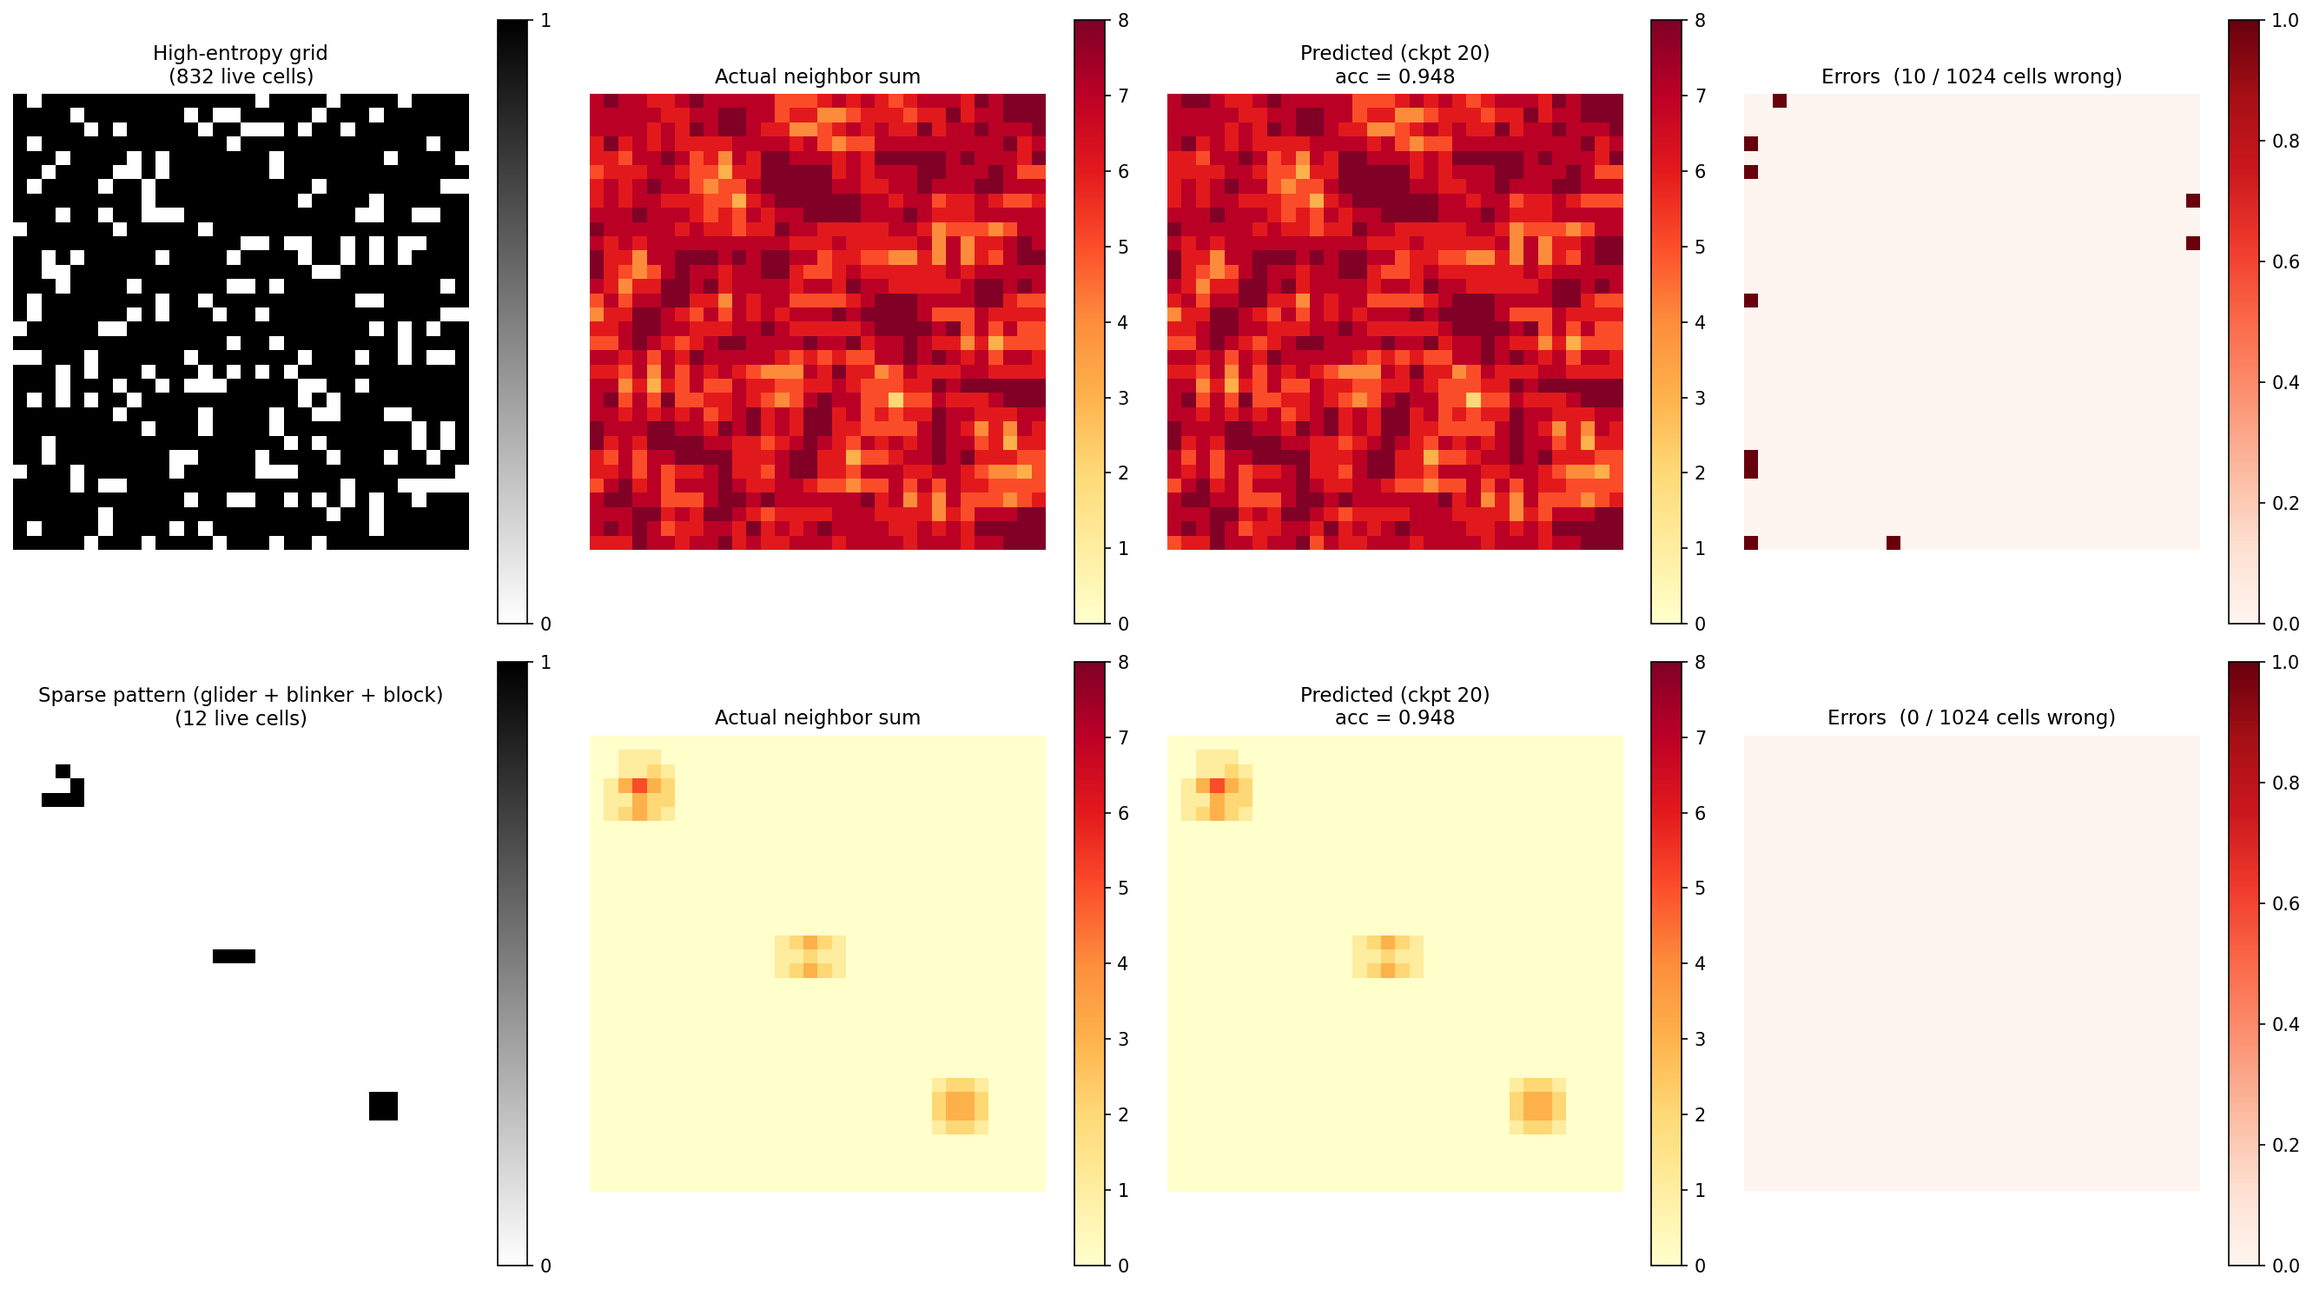
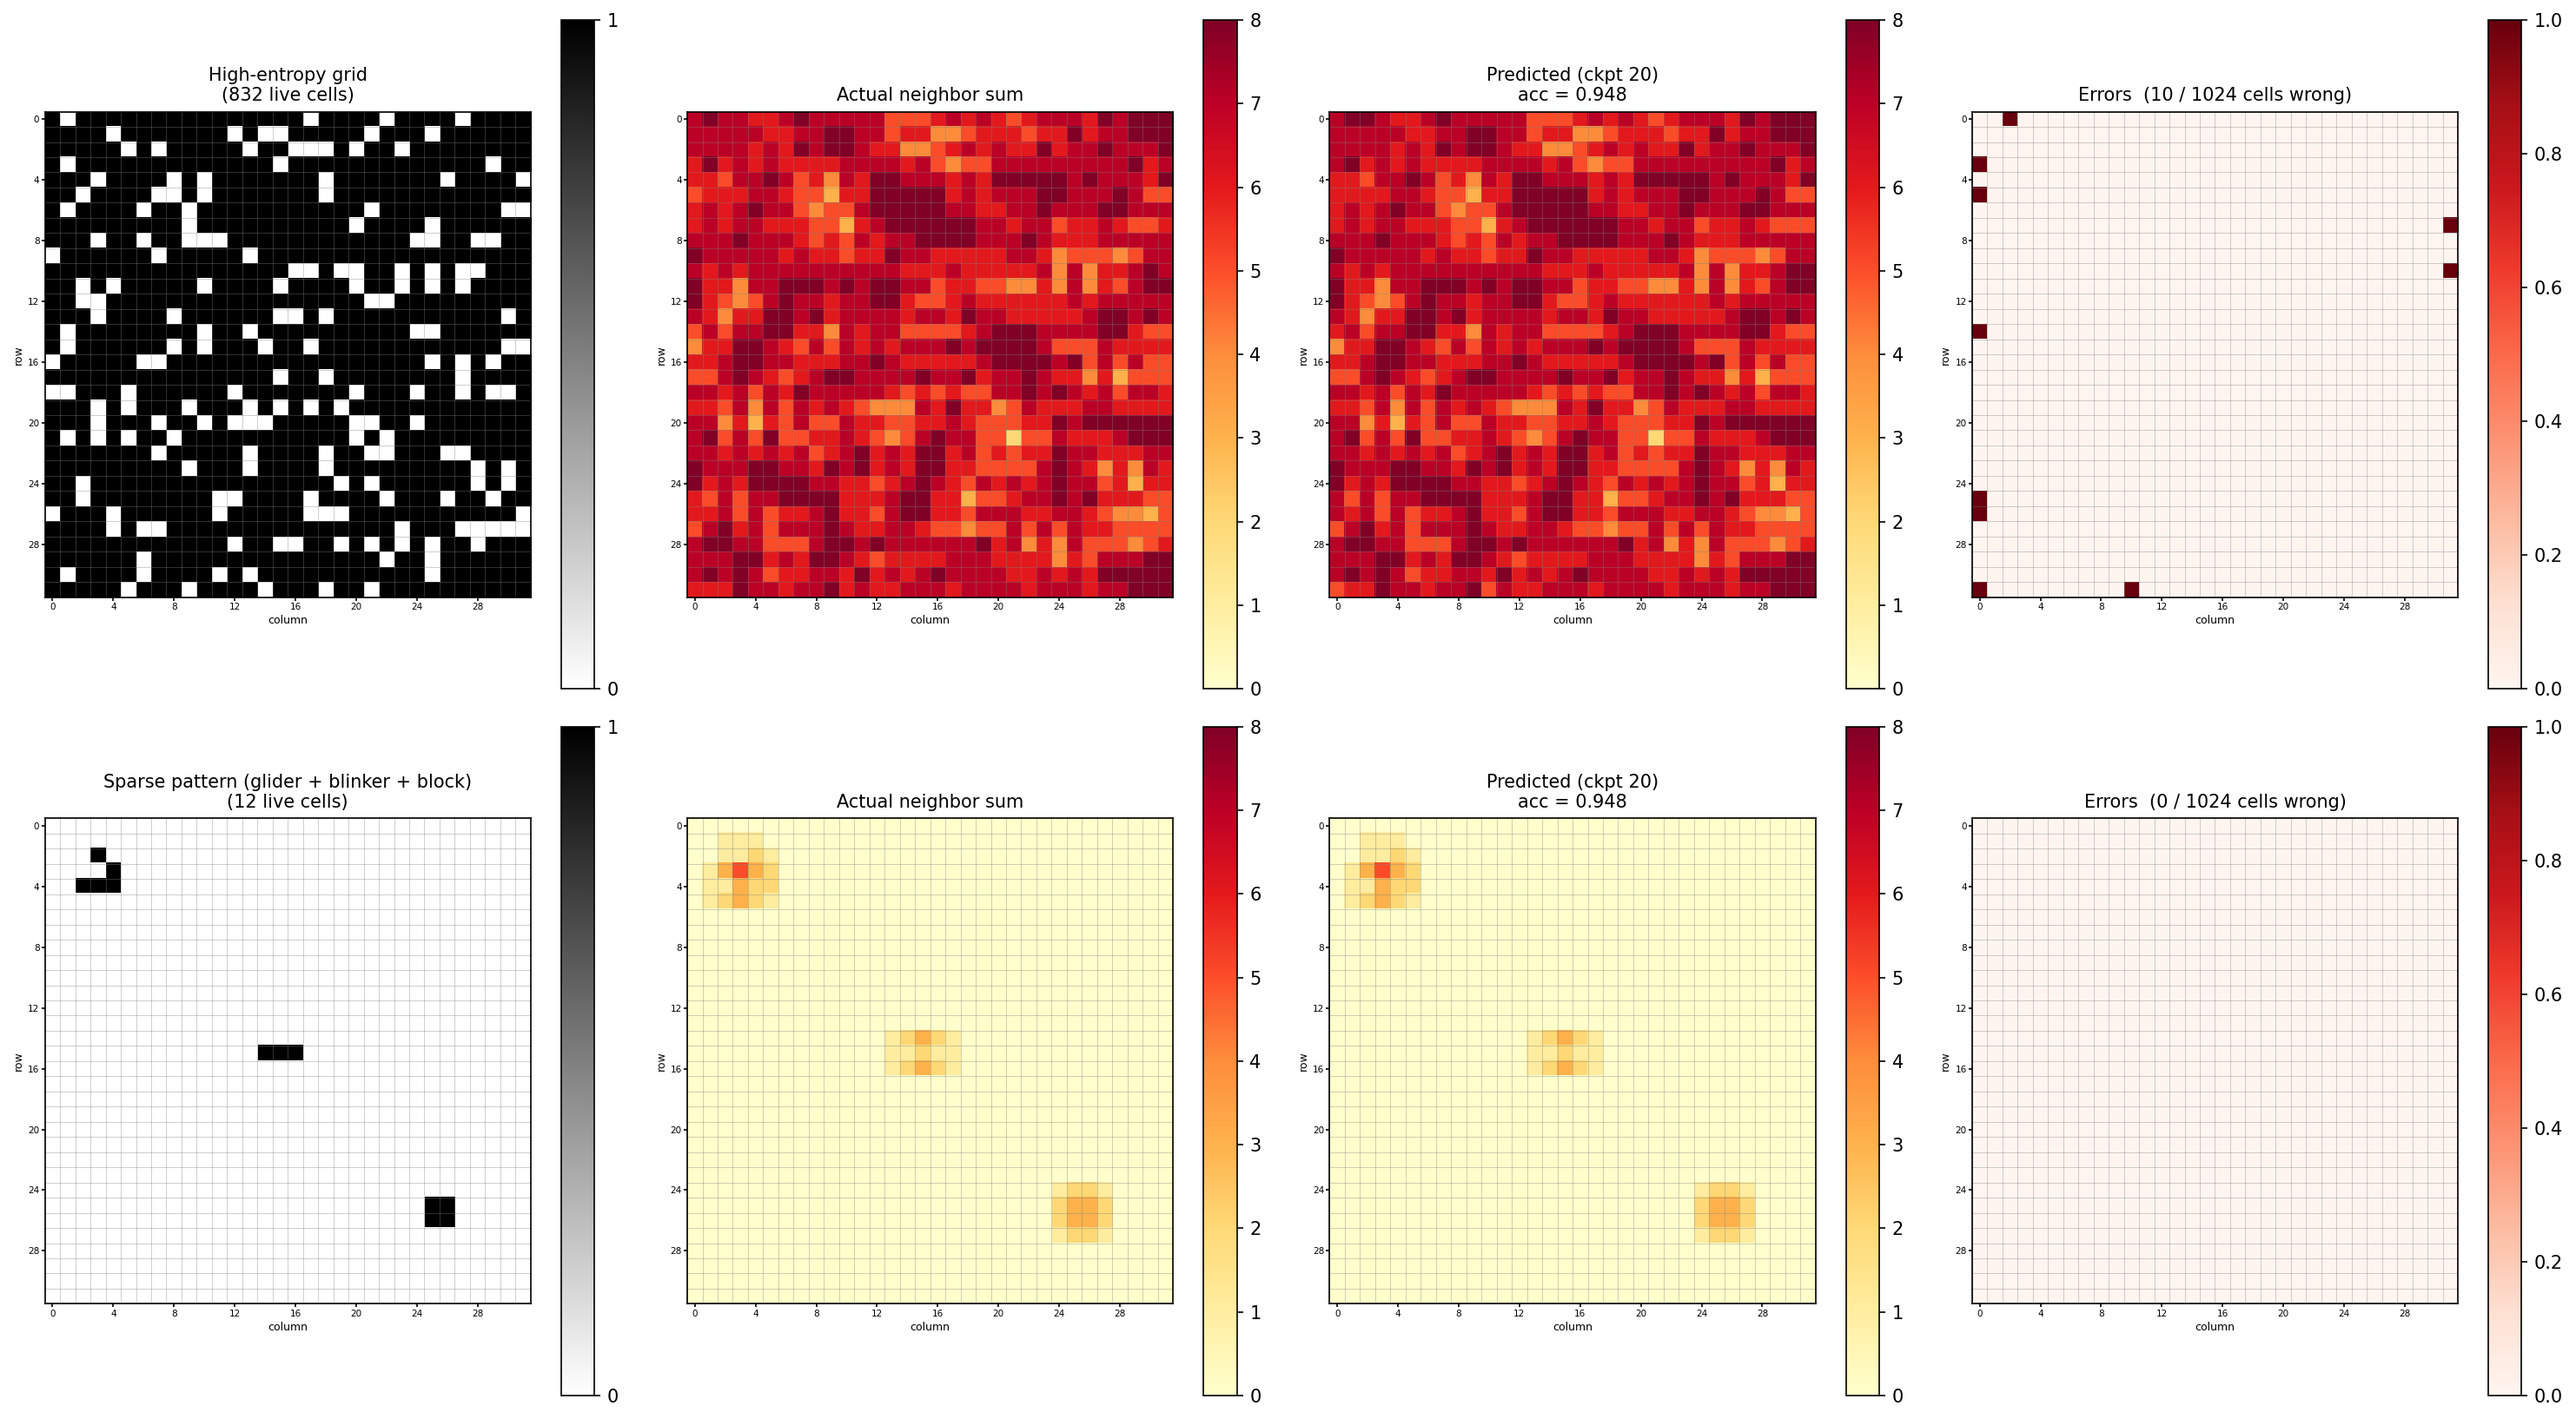
Added separate replotting script, which adds grid to the state and sum of neighbors plots

Changed region(s): [[0.0, 0.0, 0.9974, 0.9919], [0.9662, 0.0, 0.9974, 0.031], [0.2182, 0.9609, 0.2493, 0.9919]]

diff --git a/mech_interp/2_2_replot_probe_predictions.py b/mech_interp/2_2_replot_probe_predictions.py
@@ -1,0 +1,238 @@
+"""
+2_2_replot_probe_predictions.py
+
+Re-generates best_probe_prediction_vs_actual.png from saved probe_results.pt
+without rerunning probe training.  Adds cell-level grid lines and row/column
+indices to every subplot.
+
+Example A (high-entropy grid): fully derived from probe_results.pt + CSV.
+Example B (sparse grid):       hardcoded grid; requires one forward pass
+                                through the model to get activations.
+"""
+
+import os
+import numpy as np
+import pandas as pd
+import matplotlib
+matplotlib.use("Agg")
+import matplotlib.pyplot as plt
+import torch
+import typing
+
+from x_transformers import TransformerWrapper, Decoder
+from x_transformers.autoregressive_wrapper import AutoregressiveWrapper
+
+device = torch.device("cuda" if torch.cuda.is_available() else "cpu")
+
+GRID_SIZE  = 32
+SCRIPT_DIR = os.path.dirname(os.path.abspath(__file__))
+PLOTS_DIR  = os.path.join(SCRIPT_DIR, "plots")
+
+DATA_CSV = os.path.join(
+    SCRIPT_DIR,
+    "../LifeGPT/conway_states_0_1_10000by32by32by10_toroidal_20240711_133408.csv",
+)
+MODEL_PATH = os.path.join(
+    SCRIPT_DIR,
+    "../model_parameters/"
+    "07_22_2024_Conway_2_State_Jump_Rot_Pos_On_Masking_On_Broad_Entropy_Homog_"
+    "2024-07-23 10-37-31/LifeGPT_epoch_50.pt",
+)
+PROBE_PATH = os.path.join(SCRIPT_DIR, "activations", "probe_results.pt")
+
+# ── Load saved probe results ──────────────────────────────────────────────────
+
+print("Loading probe_results.pt ...")
+saved       = torch.load(PROBE_PATH)
+results     = saved["results"]
+all_acts_np = saved["all_acts"]          # (N_SAMPLES, n_ckpts, 1024, d_model)
+all_nbrs_np = saved["all_neighbors"]     # (N_SAMPLES, 1024)
+N_TRAIN     = saved["N_TRAIN"]
+
+best        = max(results, key=lambda r: r["test_acc"])
+best_r      = results[best["checkpoint"]]
+print(f"Best probe: checkpoint {best['checkpoint']}  test_acc={best['test_acc']:.3f}")
+
+# ── Helper: apply a saved probe ───────────────────────────────────────────────
+
+def probe_predict(r: dict, X: np.ndarray) -> np.ndarray:
+    Xt = (torch.from_numpy(X.astype(np.float32)) - r["mean"]) / r["std"]
+    return (Xt @ r["W"] + r["b"]).argmax(dim=-1).numpy()
+
+# ── Example A: high-entropy grid (from saved activations) ────────────────────
+
+print("Reconstructing Example A from saved data ...")
+TOTAL_ROWS = 10000
+N_SAMPLES  = all_acts_np.shape[0]
+sample_idx = np.linspace(0, TOTAL_ROWS - 1, N_SAMPLES, dtype=int)
+rows_to_skip = sorted(set(range(1, TOTAL_ROWS + 1)) - set(sample_idx + 1))
+df = pd.read_csv(DATA_CSV, skiprows=rows_to_skip, dtype=str)
+
+test_grid   = np.array(list(df.iloc[N_TRAIN]["State 1"]),
+                        dtype=np.int32).reshape(GRID_SIZE, GRID_SIZE)
+test_acts   = all_acts_np[N_TRAIN, best["checkpoint"], :, :]
+test_pred   = probe_predict(best_r, test_acts).reshape(GRID_SIZE, GRID_SIZE)
+test_actual = all_nbrs_np[N_TRAIN].reshape(GRID_SIZE, GRID_SIZE)
+test_err    = (test_pred != test_actual).astype(int)
+
+# ── Example B: sparse grid (one forward pass, no training) ───────────────────
+
+print("Running single forward pass for Example B ...")
+
+class Tokenizer:
+    def __init__(self, n_pad, device, pad_byte=0):
+        self.n_pad = n_pad; self.device = device; self.pad_byte = pad_byte
+
+    def tokenize_str(self, sentence, encoding="utf8", do_padding=True):
+        base = list(bytes(sentence, encoding))
+        if do_padding:
+            base.extend([self.pad_byte] * (self.n_pad - len(base)))
+        return torch.Tensor(base).long().to(self.device)
+
+    def texts_to_sequences(self, texts, encoding="utf8", do_padding=True):
+        return torch.cat(
+            [self.tokenize_str(s, do_padding=do_padding).unsqueeze(0) for s in texts]
+        ).to(self.device)
+
+
+def neighbor_sum(grid):
+    return sum(
+        np.roll(np.roll(grid, dr, 0), dc, 1)
+        for dr in [-1, 0, 1] for dc in [-1, 0, 1]
+        if not (dr == 0 and dc == 0)
+    ).astype(np.int32)
+
+
+MAX_LENGTH = len("@PredictNextState<> []$") + (GRID_SIZE * GRID_SIZE * 2)
+tokenizer  = Tokenizer(MAX_LENGTH, device)
+
+model = TransformerWrapper(
+    num_tokens=256, max_seq_len=MAX_LENGTH,
+    attn_layers=Decoder(dim=256, depth=12, heads=8, attn_dim_head=64,
+                        rotary_pos_emb=True, attn_flash=True),
+)
+model = AutoregressiveWrapper(model)
+model.load_state_dict(torch.load(MODEL_PATH))
+model.to(device); model.eval()
+
+_norm_cls = (torch.nn.LayerNorm,)
+try:
+    from x_transformers.x_transformers import RMSNorm, ScaleNorm
+    _norm_cls = (*_norm_cls, RMSNorm, ScaleNorm)
+except Exception:
+    pass
+
+simple_grid = np.zeros((GRID_SIZE, GRID_SIZE), dtype=np.int32)
+for r, c in [(0,1),(1,2),(2,0),(2,1),(2,2)]:
+    simple_grid[r+2, c+2] = 1
+for r, c in [(0,0),(0,1),(0,2)]:
+    simple_grid[r+15, c+14] = 1
+for r, c in [(0,0),(0,1),(1,0),(1,1)]:
+    simple_grid[r+25, c+25] = 1
+
+simple_next = ((neighbor_sum(simple_grid) == 3) |
+               (simple_grid.astype(bool) & (neighbor_sum(simple_grid) == 2))).astype(np.int32)
+
+state_str     = "".join(str(int(c)) for c in simple_grid.flatten())
+state_str_out = "".join(str(int(c)) for c in simple_next.flatten())
+full_seq      = f"@PredictNextState<{state_str}> [{state_str_out}]$"
+tokens        = tokenizer.texts_to_sequences([full_seq], do_padding=False)
+output_start  = full_seq.index('[') + 1
+
+_acts_b: dict = {}
+_hooks = []
+
+def _embed_hook(module, inputs, output):
+    _acts_b["00_embed"] = output.detach().float().cpu()
+_hooks.append(model.net.token_emb.register_forward_hook(_embed_hook))
+
+def _make_pre_hook(name):
+    def hook(module, inputs):
+        _acts_b[name] = inputs[0].detach().float().cpu()
+    return hook
+for name, module in model.net.attn_layers.named_modules():
+    if isinstance(module, _norm_cls):
+        _hooks.append(module.register_forward_pre_hook(_make_pre_hook(name)))
+
+with torch.no_grad():
+    model.net(tokens)
+for h in _hooks:
+    h.remove()
+del model
+
+keys_b      = list(_acts_b.keys())
+simple_acts = torch.stack([_acts_b[k].squeeze(0) for k in keys_b], dim=0)
+simple_acts = simple_acts[:, output_start:output_start + GRID_SIZE*GRID_SIZE, :]
+
+simple_actual = neighbor_sum(simple_grid)
+simple_pred   = probe_predict(
+                    best_r, simple_acts[best["checkpoint"]].numpy()
+                ).reshape(GRID_SIZE, GRID_SIZE)
+simple_err    = (simple_pred != simple_actual).astype(int)
+
+# ── Plot helper ───────────────────────────────────────────────────────────────
+
+def apply_grid_and_ticks(ax):
+    """Add cell-level grid lines and row/column indices to an imshow axis."""
+    ticks      = range(0, GRID_SIZE, 4)   # label every 4th cell
+    tick_minor = np.arange(-0.5, GRID_SIZE, 1)
+
+    ax.set_xticks(list(ticks))
+    ax.set_yticks(list(ticks))
+    ax.set_xticklabels([str(t) for t in ticks], fontsize=5)
+    ax.set_yticklabels([str(t) for t in ticks], fontsize=5)
+    ax.tick_params(axis="both", length=2, pad=1)
+
+    ax.set_xticks(tick_minor, minor=True)
+    ax.set_yticks(tick_minor, minor=True)
+    ax.grid(which="minor", color="gray", linewidth=0.3, alpha=0.6)
+    ax.tick_params(which="minor", length=0)
+
+    ax.set_xlabel("column", fontsize=6, labelpad=2)
+    ax.set_ylabel("row",    fontsize=6, labelpad=2)
+
+# ── Draw ──────────────────────────────────────────────────────────────────────
+
+examples = [
+    ("High-entropy grid",
+     test_grid, test_actual, test_pred, test_err),
+    ("Sparse pattern (glider + blinker + block)",
+     simple_grid, simple_actual, simple_pred, simple_err),
+]
+
+fig, axes = plt.subplots(2, 4, figsize=(20, 11))
+cmap, vmin, vmax = "YlOrRd", 0, 8
+
+for row, (label, grid, actual, pred, err) in enumerate(examples):
+    im0 = axes[row, 0].imshow(grid, cmap="binary", vmin=0, vmax=1,
+                               interpolation="nearest")
+    axes[row, 0].set_title(f"{label}\n({grid.sum()} live cells)", fontsize=10)
+    plt.colorbar(im0, ax=axes[row, 0], ticks=[0, 1])
+    apply_grid_and_ticks(axes[row, 0])
+
+    im1 = axes[row, 1].imshow(actual, cmap=cmap, vmin=vmin, vmax=vmax,
+                               interpolation="nearest")
+    axes[row, 1].set_title("Actual neighbor sum", fontsize=10)
+    plt.colorbar(im1, ax=axes[row, 1], ticks=range(9))
+    apply_grid_and_ticks(axes[row, 1])
+
+    im2 = axes[row, 2].imshow(pred, cmap=cmap, vmin=vmin, vmax=vmax,
+                               interpolation="nearest")
+    axes[row, 2].set_title(
+        f"Predicted (ckpt {best['checkpoint']})\nacc = {best['test_acc']:.3f}",
+        fontsize=10)
+    plt.colorbar(im2, ax=axes[row, 2], ticks=range(9))
+    apply_grid_and_ticks(axes[row, 2])
+
+    im3 = axes[row, 3].imshow(err, cmap="Reds", vmin=0, vmax=1,
+                               interpolation="nearest")
+    axes[row, 3].set_title(
+        f"Errors  ({err.sum()} / {GRID_SIZE*GRID_SIZE} cells wrong)", fontsize=10)
+    plt.colorbar(im3, ax=axes[row, 3])
+    apply_grid_and_ticks(axes[row, 3])
+
+plt.tight_layout()
+out_path = os.path.join(PLOTS_DIR, "best_probe_prediction_vs_actual.png")
+plt.savefig(out_path, dpi=150, bbox_inches="tight")
+plt.close()
+print(f"\nSaved {out_path}")
